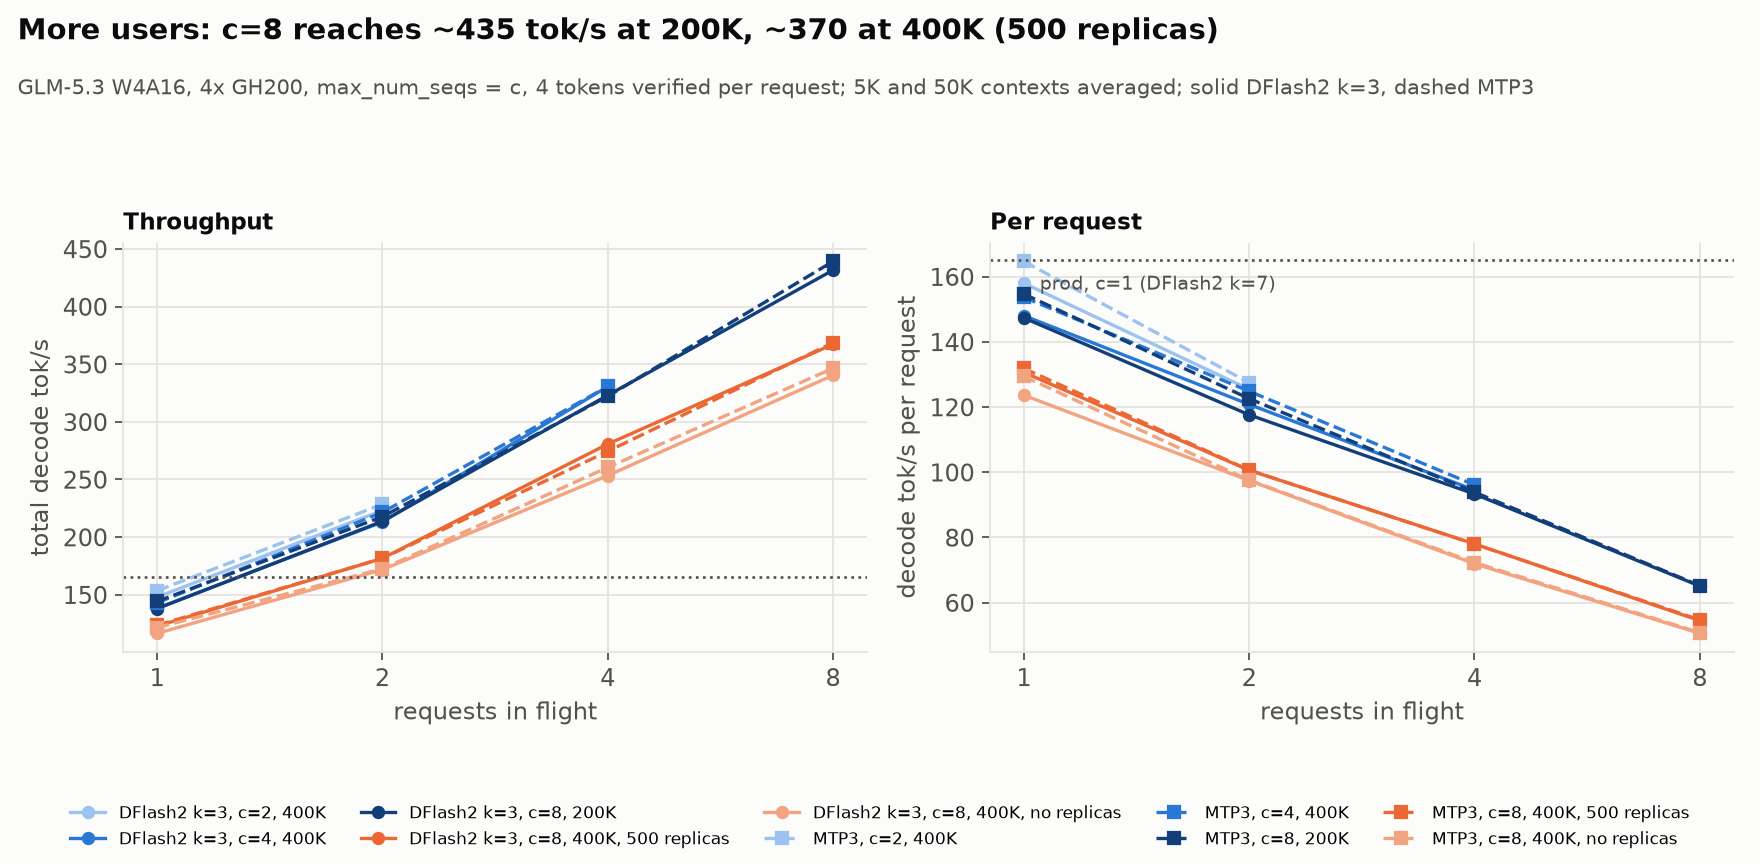
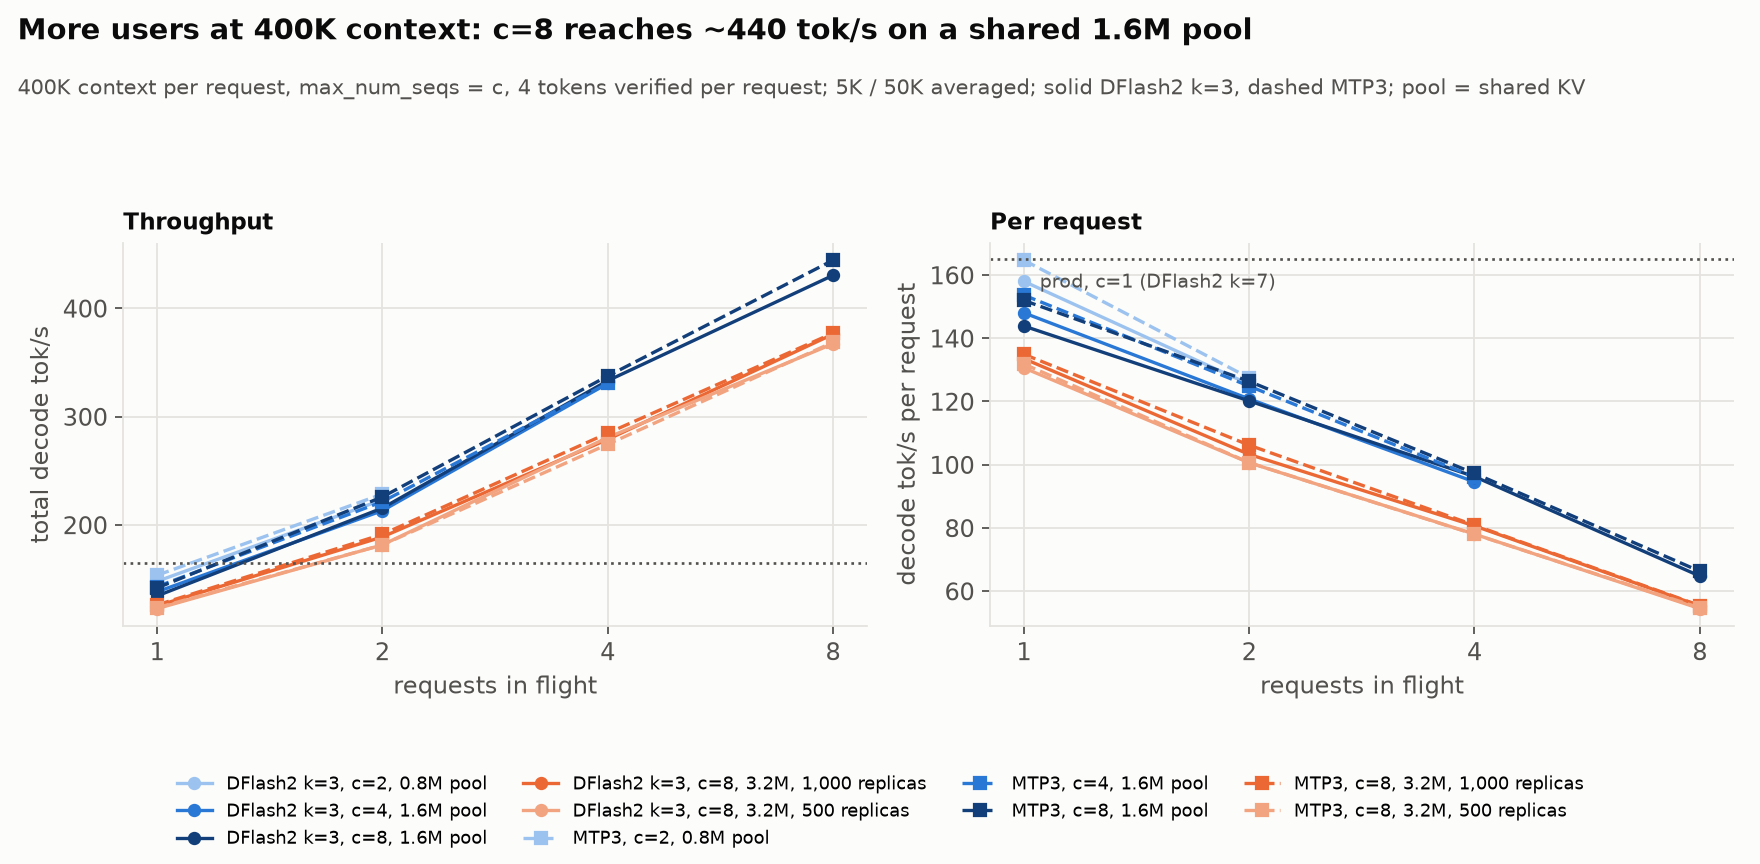
GLM-5.3: c=8 at 400K on a shared 1.6M KV pool (~440 tok/s); drop the 200K and no-replica runs
Claude-Session: https://claude.ai/code/session_01LNroM82coRpqoyBf9WF9ZV

diff --git a/glm/README.md b/glm/README.md
@@ -449,33 +449,38 @@ Served at c=4 with a 7-token drafter (3 nodes, before/after on each): the
 16-token step -3.3 ms (-10%), the 32-token step -4.3 to -4.8 ms (-10%), the
 8-token step unchanged; total throughput +8-11%.
 
-**How far concurrency goes** (decode tok/s per request / total, 5K and 50K
-contexts averaged; 4 tokens verified per request):
+**How far concurrency goes** at full 400K context per request (decode tok/s
+per request / total, 5K and 50K contexts averaged; 4 tokens verified per
+request):
 
-| config | hot / GPU | 1 in flight | 2 | 4 | 8 |
-| --- | ---: | ---: | ---: | ---: | ---: |
-| c=2, MTP3 | 3,550 | 165 / 153 | 127 / 228 | | |
-| c=2, DFlash2 k=3 | 3,591 | 158 / 148 | 125 / 223 | | |
-| c=4, MTP3 | 3,382 | 154 / 143 | 125 / 221 | 96 / 331 | |
-| c=4, DFlash2 k=3 | 3,429 | 148 / 138 | 121 / 213 | 95 / 331 | |
-| c=8 at 200K, MTP3 | 3,381 | 155 / 144 | 123 / 218 | 94 / 322 | **65 / 439** |
-| c=8 at 200K, DFlash2 k=3 | 3,427 | 147 / 138 | 118 / 214 | 93 / 323 | **65 / 432** |
-| c=8 at 400K, 500 replicas, MTP3 | 3,044 | 132 / 123 | 101 / 182 | 78 / 274 | 55 / 369 |
-| c=8 at 400K, 500 replicas, DFlash2 k=3 | 3,108 | 131 / 123 | 101 / 182 | 78 / 281 | 54 / 367 |
-| c=8 at 400K, no replicas, DFlash2 k=3 | 3,108 | 124 / 116 | 97 / 172 | 72 / 253 | 51 / 340 |
+| config | KV pool | hot / GPU | 1 in flight | 2 | 4 | 8 |
+| --- | ---: | ---: | ---: | ---: | ---: | ---: |
+| c=2, MTP3 | 0.8M | 3,550 | 165 / 153 | 127 / 228 | | |
+| c=2, DFlash2 k=3 | 0.8M | 3,591 | 158 / 148 | 125 / 223 | | |
+| c=4, MTP3 | 1.6M | 3,382 | 154 / 143 | 125 / 221 | 96 / 331 | |
+| c=4, DFlash2 k=3 | 1.6M | 3,429 | 148 / 138 | 121 / 213 | 95 / 331 | |
+| **c=8, MTP3** | **1.6M** | 3,381 | 152 / 142 | 126 / 226 | 97 / 337 | **66 / 444** |
+| **c=8, DFlash2 k=3** | **1.6M** | 3,428 | 144 / 134 | 120 / 216 | 96 / 333 | **65 / 430** |
+| c=8, MTP3, 1,000 replicas | 3.2M | 3,044 | 135 / 126 | 106 / 191 | 81 / 285 | 55 / 377 |
+| c=8, DFlash2 k=3, 1,000 replicas | 3.2M | 3,108 | 134 / 125 | 103 / 189 | 81 / 279 | 55 / 376 |
+| c=8, DFlash2 k=3, 500 replicas | 3.2M | 3,108 | 131 / 123 | 101 / 182 | 78 / 281 | 54 / 367 |
 
 ![throughput vs requests in flight](figs/glm-concurrency.png)
 
-- **c=4 doubles throughput, c=8 nearly triples it** (~330 and ~435 tok/s
-  against ~165 for one user), at ~95 and ~65 tok/s per request.
-- **MTP3 and DFlash2 k=3 are level** at every size: MTP3 accepts a little
-  more, DFlash2's step is a little shorter. MTP3 needs a 3.6 GB HBM reserve
-  (the planner under-counts its layer) where DFlash2 runs at 1.7.
-- **c=8 at full 400K does not fit Grace** with prod's 1,350-1,960 replicas
-  per GPU: 8 x 400K of skip-layer and drafter KV plus the extra cold experts
-  exceed it. Fewer hot experts would not help (each one moved out of HBM
-  lands on Grace). With 500 replicas it fits and costs 15% against c=8 at
-  200K (367 vs 432); with none, 21%.
+- **The KV pool no longer has to be c x 400K.** The planner used to provision
+  max_num_seqs full-length sequences, so c=8 meant a 3.2M-token pool: ~320
+  fewer hot experts per GPU and, with that much KV on Grace, no room for the
+  usual 1,350-1,960 cold replicas (it fit only with 500-1,000). A shared pool
+  sized in sequences (`VLLM_TIERED_MOE_KV_POOL_SEQS`, here 4 = 1.6M tokens)
+  lets 8 requests of up to 400K each share what 4 would have had; vLLM
+  preempts if their combined context outgrows it.
+- **c=4 doubles throughput, c=8 reaches ~440 tok/s** (against ~165 for one
+  user), at ~95 and ~65 tok/s per request. On the 1.6M pool c=8 keeps c=4's
+  hot set and replicas, so a lone request runs about as fast as under c=4.
+- **MTP3 and DFlash2 k=3 are level** on this text: MTP3 accepts a little more,
+  DFlash2's step is a little shorter (section 11 for other text). MTP3 needs a
+  3.6 GB HBM reserve (the planner under-counts its layer) where DFlash2 runs
+  at 1.7.
 
 ## 11. MTP3 vs DFlash2 away from code
 

diff --git a/README.md b/README.md
@@ -23,7 +23,7 @@ drafter, now working under DCP4, and a round of kernel work on the verify step
 (~144 tok/s). Freeing HBM for hot experts (+496 per GPU, mostly by moving memory to Grace) and
 a round of decode micro-optimizations take it to **~21.0 ms/step (~168 tok/s)**
 for one user; with up to 32 tokens per decode step it serves 4 users at ~330
-tok/s and 8 at ~435 (200K context each):
+tok/s and 8 at ~440, each with 400K of context on a shared KV pool:
 [glm/README.md](glm/README.md) tracks what was different, what it took, and
 where the gap is.
 
